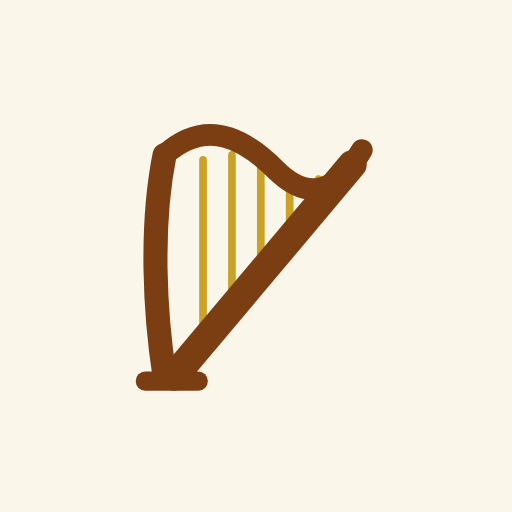
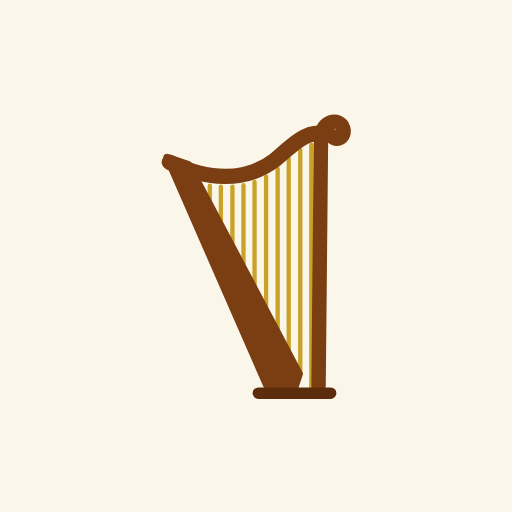
make harp welsher

Changed region(s): [[0.25, 0.2188, 0.75, 0.7812]]

diff --git a/site/index.html b/site/index.html
@@ -20,7 +20,7 @@
   <meta property="og:image" content="https://ysesiwn.cymru/og-image.png">
   <meta property="og:image:width" content="1200">
   <meta property="og:image:height" content="630">
-  <meta property="og:image:alt" content="Y Sesiwn: a harp and the words 'Welsh folk tunes: sheet music, playback, and any key', between two bands of Welsh tapestry pattern">
+  <meta property="og:image:alt" content="Y Sesiwn: a Welsh triple harp and the words 'Welsh folk tunes: sheet music, playback, and any key', between two bands of Welsh tapestry pattern">
   <meta name="twitter:card" content="summary_large_image">
   <link rel="stylesheet" href="static/abcjs/abcjs-audio.css">
   <link rel="stylesheet" href="style.css">

diff --git a/design/triple-harp.py b/design/triple-harp.py
@@ -1,0 +1,49 @@
+# Draws static/harp.svg, the site's icon: python3 design/triple-harp.py static/harp.svg
+# (then regenerate the PNG icons from the other design/ pages; see the README).
+# Welsh triple harp, side view: soundbox on the left leaning back, straight fore-pillar
+# on the right rising to a scrolled head, neck sweeping up from the soundbox to the head.
+import sys
+
+def bez(p0, p1, p2, p3, t):
+    return tuple((1-t)**3*a + 3*(1-t)**2*t*b + 3*(1-t)*t**2*c + t**3*d for a, b, c, d in zip(p0, p1, p2, p3))
+
+# neck: two cubic segments
+N1 = [(16.5, 12.5), (24, 16), (32, 17), (38.5, 12)]
+N2 = [(38.5, 12), (42, 9), (44.5, 6.5), (47.5, 6.5)]
+neck_pts = [bez(*N1, t/200) for t in range(201)] + [bez(*N2, t/200) for t in range(201)]
+def neck_y(x):  # underside is ~ the centre line; strings start a bit below
+    return min(neck_pts, key=lambda p: abs(p[0]-x))[1]
+
+# soundboard (string side of the soundbox): straight line
+SB = ((19.5, 14), (43, 56.5))
+def board_y(x):
+    (x0, y0), (x1, y1) = SB
+    return y0 + (x - x0) * (y1 - y0) / (x1 - x0)
+
+strings = []
+xs = [22.5 + i * 2.35 for i in range(11)]
+for i, x in enumerate(xs):
+    top, bottom = neck_y(x) + 2.2, board_y(x) - 1.2
+    if bottom - top > 2:
+        strings.append(f'<line x1="{x:.1f}" y1="{top:.1f}" x2="{x:.1f}" y2="{bottom:.1f}"/>')
+
+wood, dark, gold = "#7a3e12", "#5c2d0c", "#c9a227"
+svg = f'''<svg xmlns="http://www.w3.org/2000/svg" viewBox="2.5 0 64 64">
+  <!-- A Welsh triple harp (telyn deires): tall soundbox, straight fore-pillar with a
+       scrolled head, and a neck that sweeps up to it. Made by design/triple-harp.py. -->
+  <g stroke="{gold}" stroke-width="0.9" stroke-linecap="round">
+    {chr(10).join("    " + s for s in strings).strip()}
+  </g>
+  <g fill="none" stroke="{wood}" stroke-linecap="round" stroke-linejoin="round">
+    <!-- fore-pillar, with the head's scroll curling forward at the top -->
+    <path d="M47.5 59 L48 7.5 C 48 4, 51.8 3, 52.6 5.4 C 53.2 7.3, 51.2 8.4, 50.2 7" stroke-width="3"/>
+    <!-- neck -->
+    <path d="M{N1[0][0]} {N1[0][1]} C {N1[1][0]} {N1[1][1]}, {N1[2][0]} {N1[2][1]}, {N1[3][0]} {N1[3][1]} C {N2[1][0]} {N2[1][1]}, {N2[2][0]} {N2[2][1]}, {N2[3][0]} {N2[3][1]}" stroke-width="3.2"/>
+  </g>
+  <!-- soundbox: narrow at the top, wide at the foot -->
+  <path d="M16 11.5 L20.5 13 L43.5 56.5 L42.5 59.5 L37 59.5 Z" fill="{wood}" stroke="{wood}" stroke-width="1.5" stroke-linejoin="round"/>
+  <!-- feet -->
+  <path d="M35 60.5 H50" stroke="{dark}" stroke-width="2.4" stroke-linecap="round"/>
+</svg>
+'''
+open(sys.argv[1], "w").write(svg)

diff --git a/README.md b/README.md
@@ -235,7 +235,7 @@ relative URLs, so the site also works under a sub-path such as
 | `CONTRIBUTING.md` | How to add a tune, and how to submit corrections. Each `# ` section is one page on the site, and GitHub shows the whole file, so edit it in one place. Keep the two `# ` headings as they are: the site finds the sections by them. |
 | `static/abcjs/` | [abcjs](https://www.abcjs.net/) 6.4.4 (`abcjs-basic-min.js`, `abcjs-audio.css`): draws and plays the music. |
 | `static/soundfont/acoustic_grand_piano-mp3/` | The 88 piano notes (A0–C8) from the FluidR3_GM soundfont, one MP3 each; a tune loads only the notes it uses. |
-| `static/marked/`, `static/harp.svg` | [marked](https://marked.js.org/) 15 (Markdown pages); the icon. |
+| `static/marked/`, `static/harp.svg` | [marked](https://marked.js.org/) 15 (Markdown pages); the icon, a Welsh triple harp drawn by `design/triple-harp.py` (the PNG icons and link-preview card are screenshots of it, see above). |
 | `download_assets.py` | Re-downloads everything in `static/` (skips files that exist). Only needed if `static/` is lost or you want to change version. |
 | `tunes/<folder>/tune.abc` | One tune (or version) per folder; the site reads only these. |
 | `.github/workflows/pages.yml` | Tests, builds and publishes the site. |
